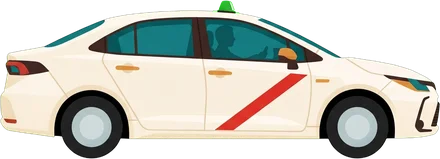
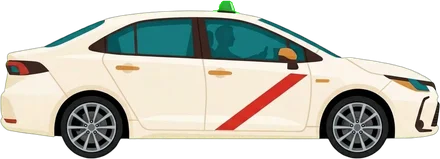
Corolla y Tesla con llantas de aleación (nuevas ilustraciones de Iván)
Claude-Session: https://claude.ai/code/session_01V2iRQ1otXhkcHck3527rkC

diff --git a/js/actualizaciones.js b/js/actualizaciones.js
@@ -613,6 +613,10 @@
         {
           "n": 134,
           "texto": "El Mercedes Clase S también tiene su dibujo: al elegir coche, junto a los kilómetros y cruzando la calle de arriba si tienes uno."
+        },
+        {
+          "n": 135,
+          "texto": "El Corolla y el Tesla estrenan llantas de aleación, con más detalle (el Tesla, con la pinza de freno roja)."
         }
       ]
     }

diff --git a/docs/historial.md b/docs/historial.md
@@ -171,3 +171,4 @@ Todas las actualizaciones del juego, numeradas (las pequeñas, agrupadas). Es el
 132. El taxi que cruza la calle de arriba es ahora una ilustración, como los edificios: el Corolla blanco con su franja roja y la luz verde.
 133. Los coches tienen dibujo: el Corolla y el Tesla salen ilustrados al elegir coche y en miniatura junto a los kilómetros de cada licencia, y el taxi que cruza la calle de arriba es, en cada pasada, uno de los coches de tu flota.
 134. El Mercedes Clase S también tiene su dibujo: al elegir coche, junto a los kilómetros y cruzando la calle de arriba si tienes uno.
+135. El Corolla y el Tesla estrenan llantas de aleación, con más detalle (el Tesla, con la pinza de freno roja).
